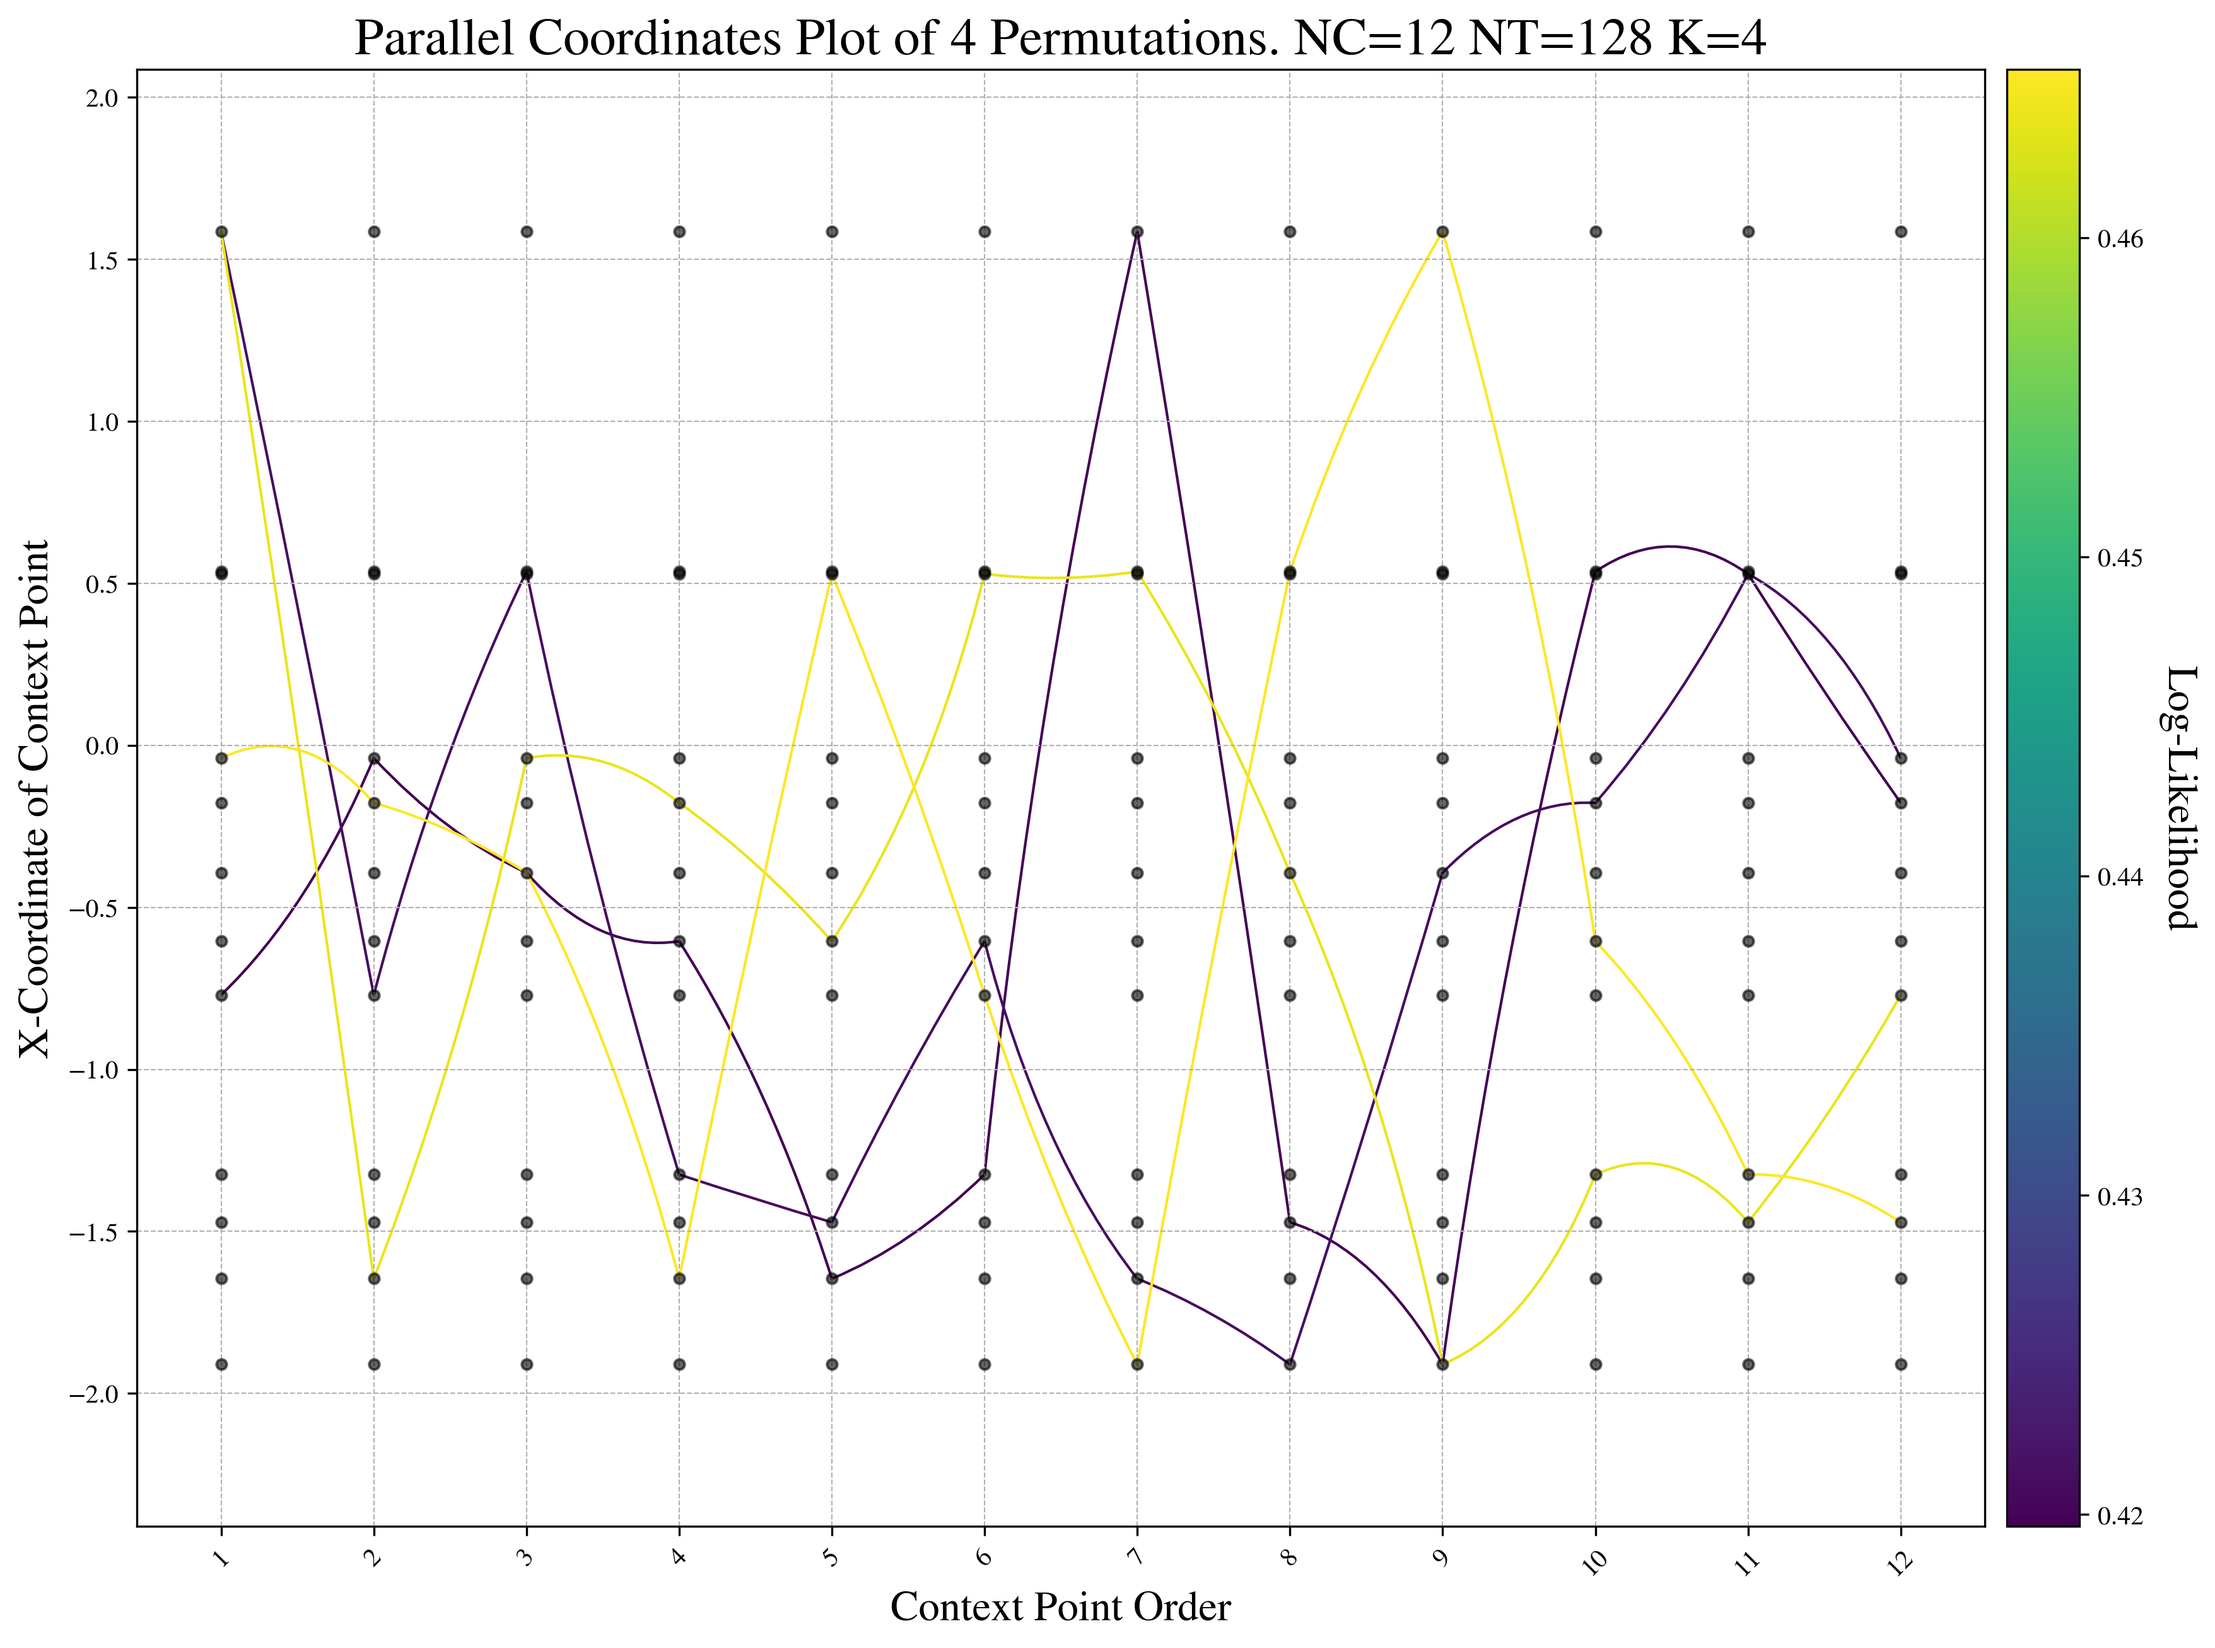
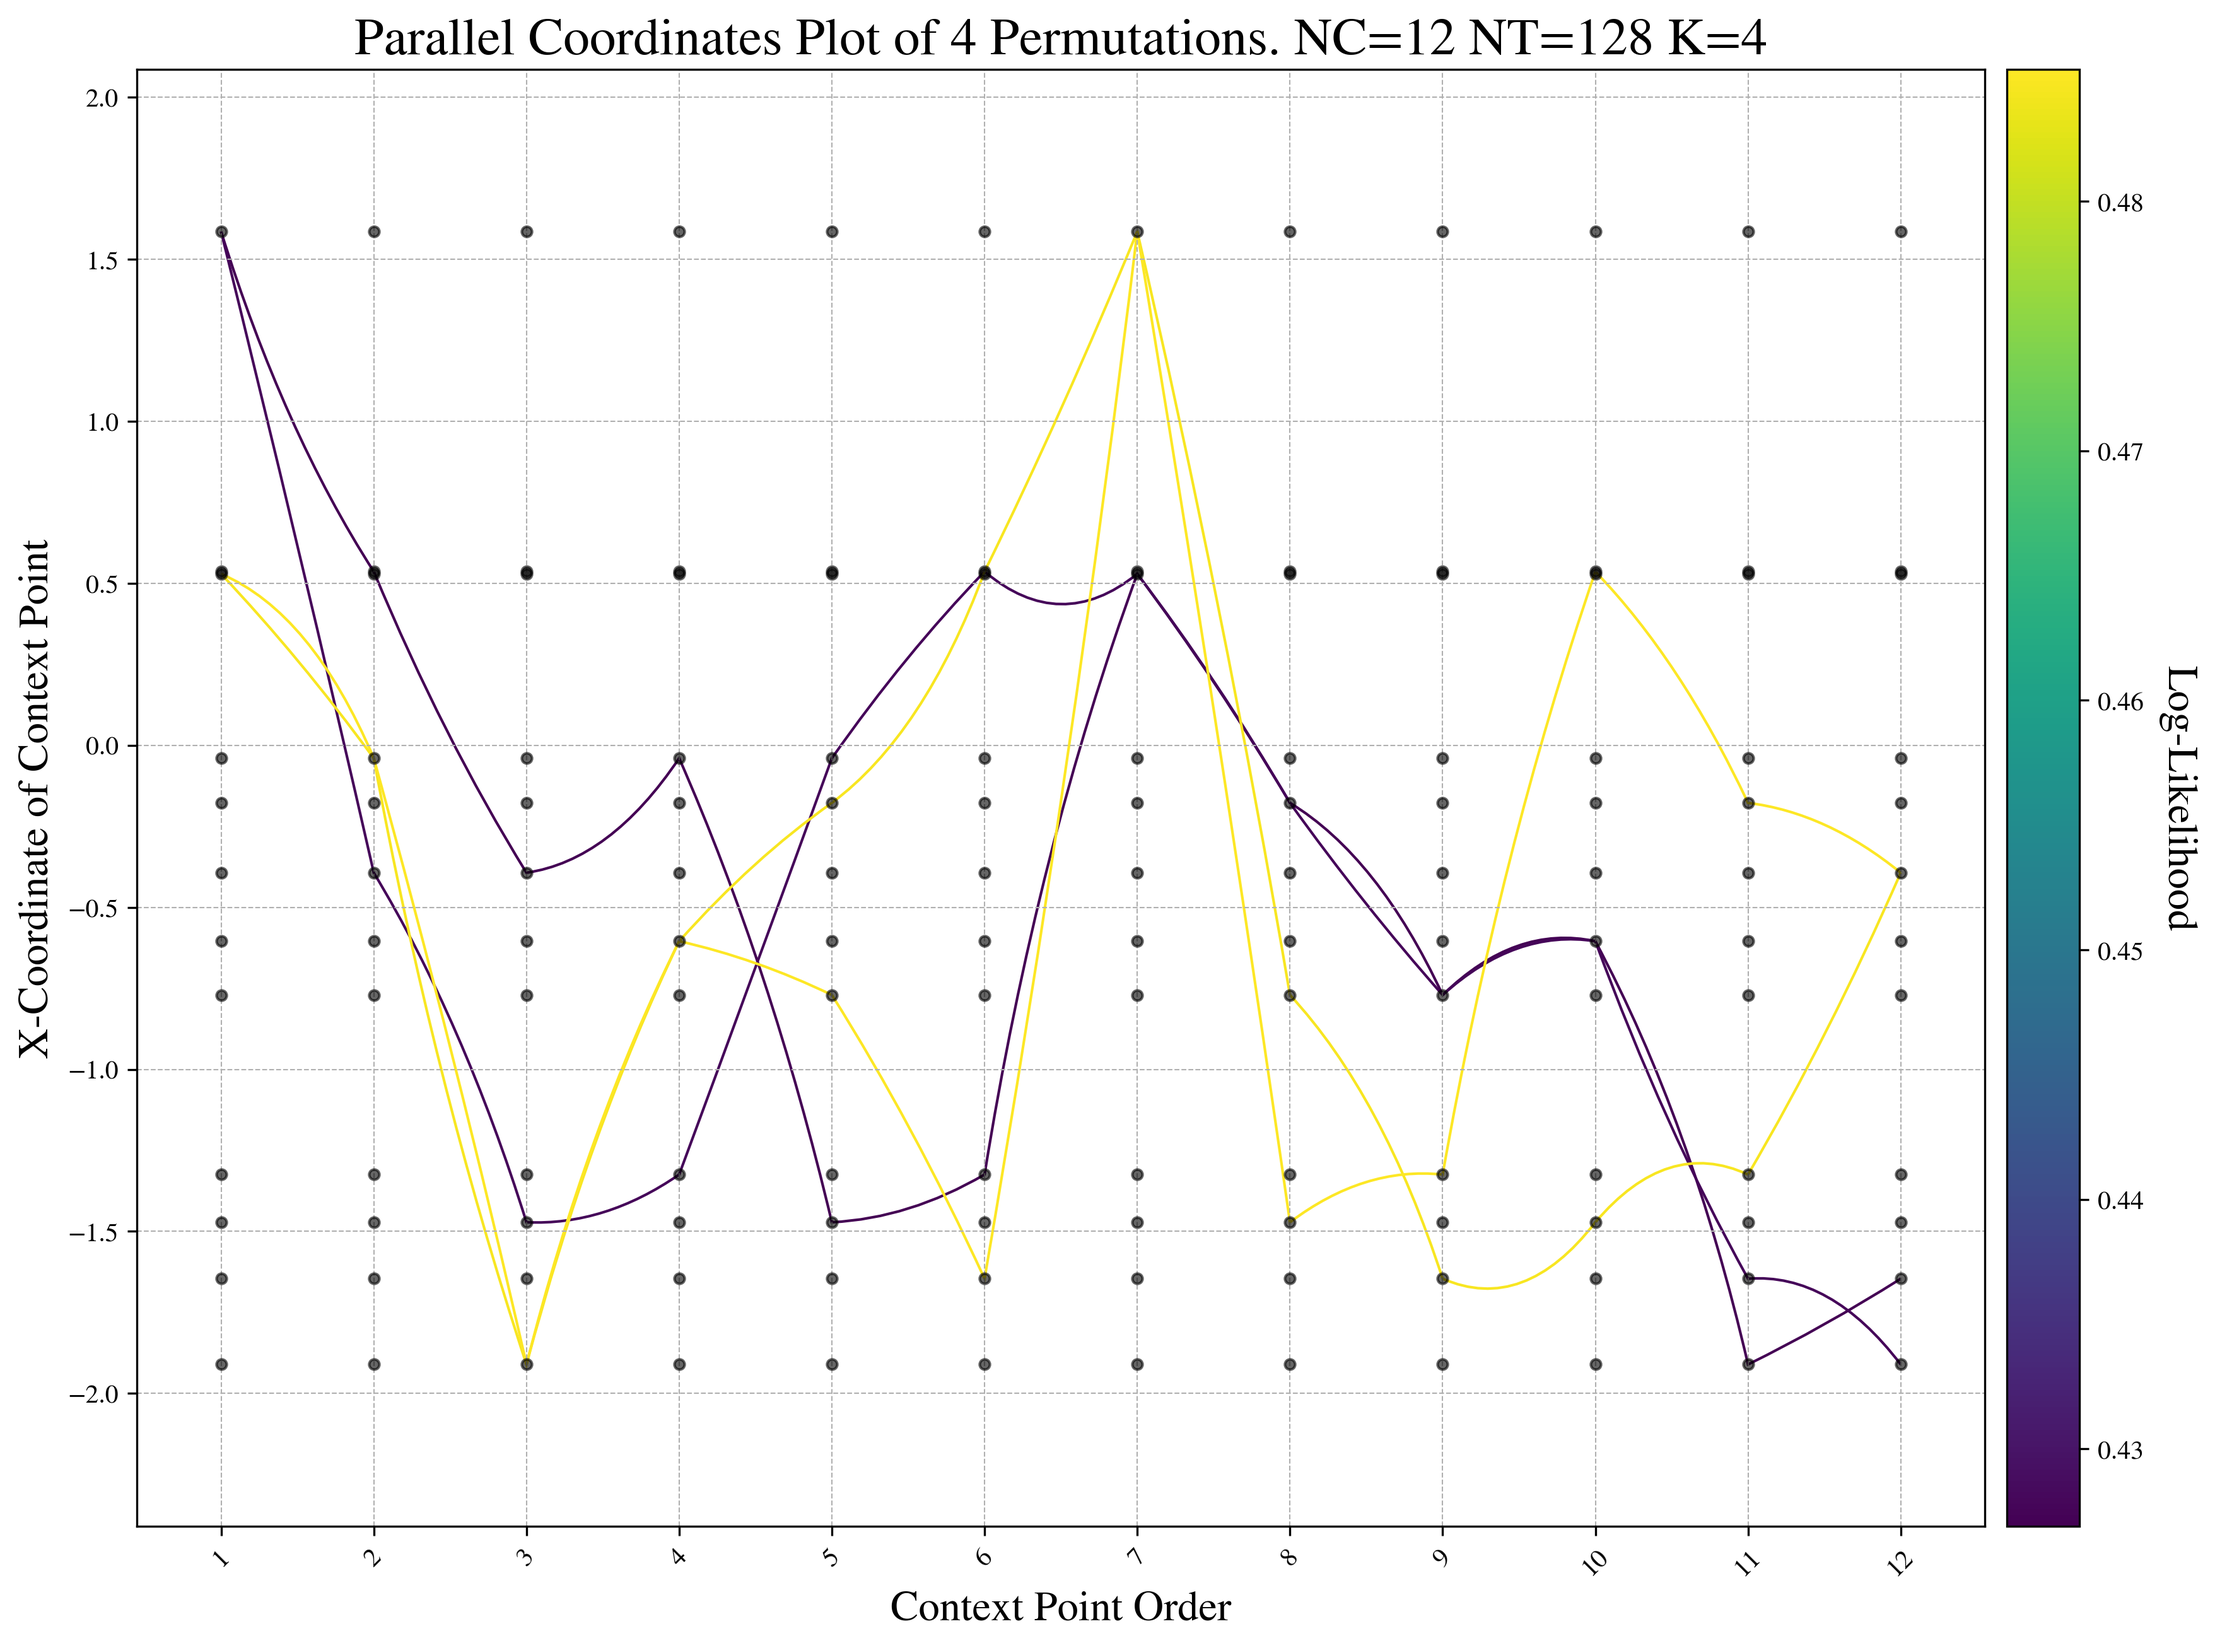
Greedy search that dramatically improves perf

diff --git a/experiments/plot_adversarial_perms.py b/experiments/plot_adversarial_perms.py
@@ -475,12 +475,14 @@ def greedy_variance_ctx_builder(masked_model, xc: torch.Tensor, yc: torch.Tensor
         n_remaining = nc - step
         idx_remaining = not_picked_idx[:, 1].reshape(m, n_remaining) # [m, n_remaining]
         xt_candidates = xc[batch_idx.unsqueeze(1), idx_remaining] # [m, n_remaining, dx]
+        yt_candidates = yc[batch_idx.unsqueeze(1), idx_remaining]
 
         # Runs inference
         batch = Batch(xc=xc_new, yc=yc_new, xt=xt_candidates, yt=None, y=None, x=None) # This is dodgy because maybe some models rely on x, yt, y, x
         #pred_dist = masked_model(xc_new, yc_new, xt_candidates)
-        pred_dist = np_pred_fn(masked_model, batch, predict_without_yt_tnpa=True)
+        pred_dist = np_pred_fn(masked_model, batch, predict_without_yt_tnpa=True) # [m, n_remaining, dy]
         var = pred_dist.variance.mean(-1) # [m, n_remaining]
+        var = (pred_dist.log_prob(yt_candidates).sum(dim=(-1)) / (len(yt_candidates) * dy))
 
         # Selection strategy
         if policy == "best": selected_points = var.argmax(dim=1) # [m]
@@ -636,7 +638,7 @@ if __name__ == "__main__":
     #masked_model.eval()
 
     masked_model = get_model('experiments/configs/synthetic1dRBF/gp_priorbatched_causal_tnp_rbf_rangesame.yml',
-        'pm846-university-of-cambridge/mask-priorbatched-tnp-rbf-rangesame/model-smgj3gn6:v61')
+        'pm846-university-of-cambridge/mask-priorbatched-tnp-rbf-rangesame/model-smgj3gn6:v100')
     masked_model.eval()
 
     # Sorts context in order
@@ -663,7 +665,7 @@ if __name__ == "__main__":
 
     print("Starting search")
     perms, log_p, (data_time, inference_time, total_time) = gather_rand_perms(masked_model, xc, yc, data.xt, data.yt, 
-        no_permutations=1_000, device='cuda', batch_size=2048)
+        no_permutations=100_000, device='cuda', batch_size=2048)
     print(f"Data time: {data_time:.2f}s, Inference time: {inference_time:.2f}s, Total time: {total_time:.2f}s")
     visualise_perms(masked_model, perms, log_p, xc, yc, data.xt, data.yt,
         folder_path="experiments/plot_results/adversarial", file_id="1", gt_pred=data.gt_pred, 
